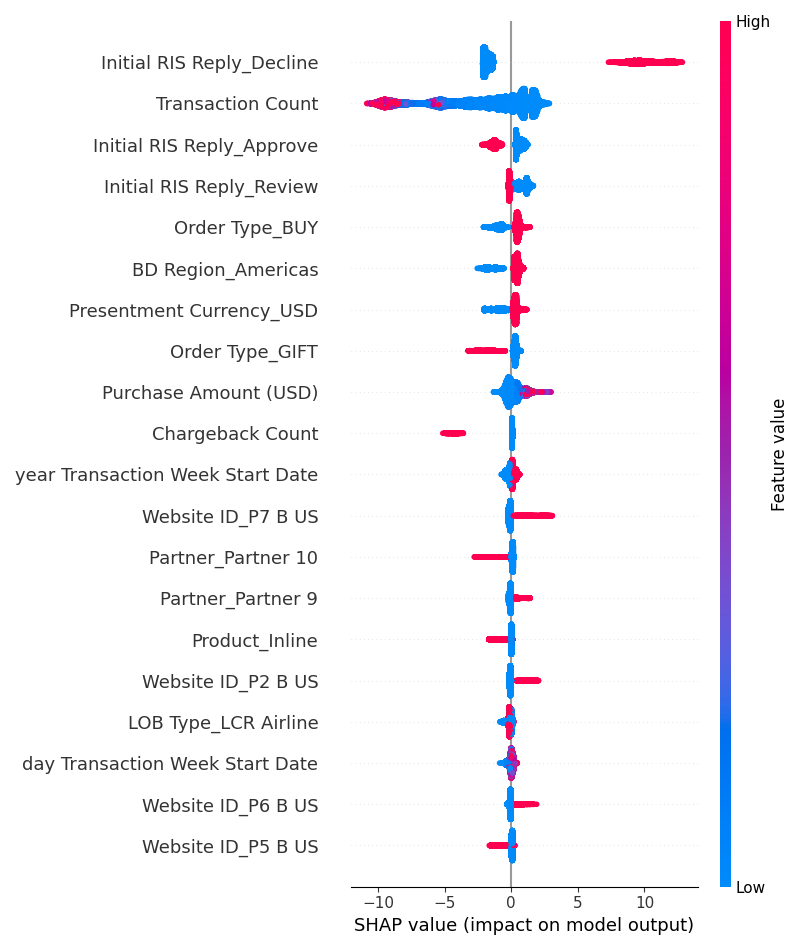
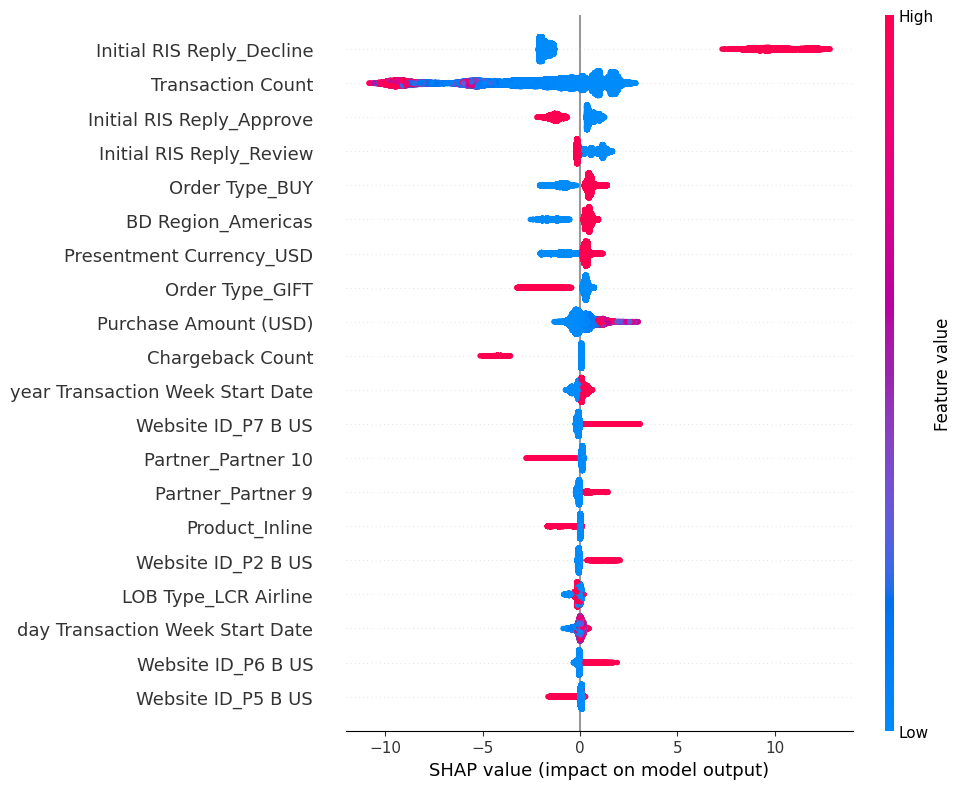
adjust shap_summary_default.png shape

Changed region(s): [[0.0, 0.0, 0.9688, 1.0], [0.9688, 0.3954, 1.0, 0.5475], [0.5, 0.4259, 0.5312, 0.4563]]

diff --git a/fraud_analysis.py b/fraud_analysis.py
@@ -225,8 +225,8 @@ import shap
 try:
     explainer = shap.Explainer(clf_xgb)
     shap_values = explainer(X_train)
-    shap.summary_plot(shap_values.values, X_train, show=False)
-    plt.savefig('shap_summary_default.png')  # Save the figure
+    shap.summary_plot(shap_values.values, X_train, show=False, plot_size=(10, 8))
+    plt.savefig('shap_summary_default.png', bbox_inches='tight')  # Save the figure shap_summary_default
 except Exception as e:
     print(f"An error occurred: {e}")
 finally:
